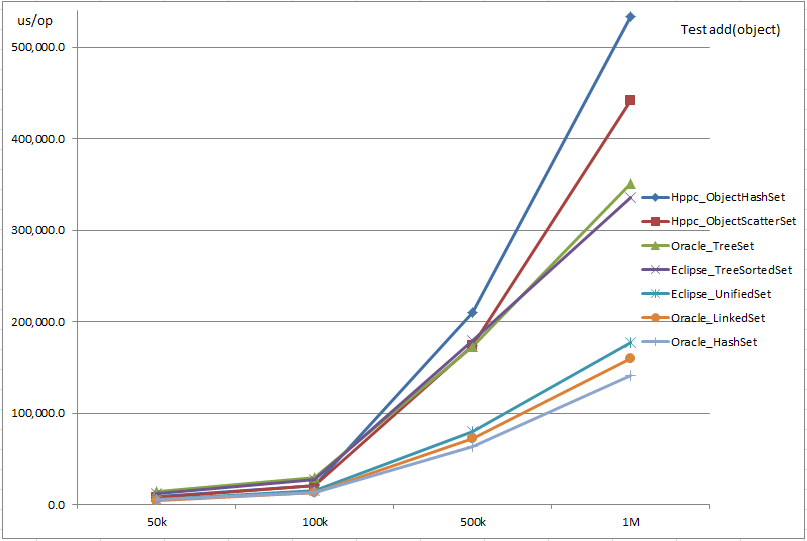
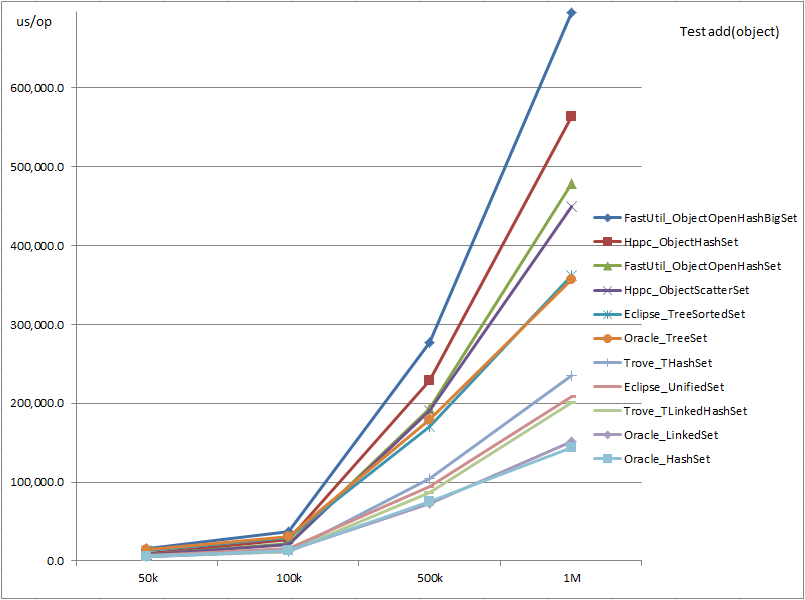
extend test

diff --git a/src/main/java/objects/set/TestAddToSet.java b/src/main/java/objects/set/TestAddToSet.java
@@ -1,6 +1,9 @@
 package objects.set;
 
 import com.carrotsearch.hppc.*;
+import gnu.trove.set.hash.*;
+import it.unimi.dsi.fastutil.objects.ObjectOpenHashBigSet;
+import it.unimi.dsi.fastutil.objects.ObjectOpenHashSet;
 import org.eclipse.collections.impl.set.mutable.UnifiedSet;
 import org.eclipse.collections.impl.set.sorted.mutable.TreeSortedSet;
 import org.openjdk.jmh.annotations.*;
@@ -81,6 +84,30 @@ public class TestAddToSet {
         for(int i = 0; i < size; i++) {
             set.add(Integer.toString(i));
         }
+    }
+
+    @Benchmark
+    public void test_FastUtil_ObjectOpenHashSet() {
+        ObjectOpenHashSet<String> set = new ObjectOpenHashSet<>();
+        fillSet(set);
+    }
+
+    @Benchmark
+    public void test_FastUtil_ObjectOpenHashBigSet() {
+        ObjectOpenHashBigSet<String> set = new ObjectOpenHashBigSet<>();
+        fillSet(set);
+    }
+
+    @Benchmark
+    public void test_Trove_THashSet() {
+        THashSet<String> set = new THashSet<>();
+        fillSet(set);
+    }
+
+    @Benchmark
+    public void test_Trove_TLinkedHashSet() {
+        TLinkedHashSet<String> set = new TLinkedHashSet<>();
+        fillSet(set);
     }
 
     public static void main(String[] args) throws RunnerException {

diff --git a/src/main/java/objects/set/TestSizeSet.java b/src/main/java/objects/set/TestSizeSet.java
@@ -1,6 +1,9 @@
 package objects.set;
 
 import com.carrotsearch.hppc.*;
+import gnu.trove.set.hash.*;
+import it.unimi.dsi.fastutil.objects.ObjectOpenHashBigSet;
+import it.unimi.dsi.fastutil.objects.ObjectOpenHashSet;
 import org.eclipse.collections.impl.set.mutable.UnifiedSet;
 import org.eclipse.collections.impl.set.sorted.mutable.TreeSortedSet;
 import tools.Size;
@@ -76,6 +79,30 @@ public class TestSizeSet extends TestSize {
             set.add(Integer.toString(i));
         }
         return set;
+    }
+
+    @Size
+    public Object FastUtil_ObjectOpenHashSet() {
+        ObjectOpenHashSet<String> set = new ObjectOpenHashSet<>();
+        return fillSet(set);
+    }
+
+    @Size
+    public Object FastUtil_ObjectOpenHashBigSet() {
+        ObjectOpenHashBigSet<String> set = new ObjectOpenHashBigSet<>();
+        return fillSet(set);
+    }
+
+    @Size
+    public Object Trove_THashSet() {
+        THashSet<String> set = new THashSet<>();
+        return fillSet(set);
+    }
+
+    @Size
+    public Object Trove_TLinkedHashSet() {
+        TLinkedHashSet<String> set = new TLinkedHashSet<>();
+        return fillSet(set);
     }
 
     public static void main(String[] args) throws Exception {
